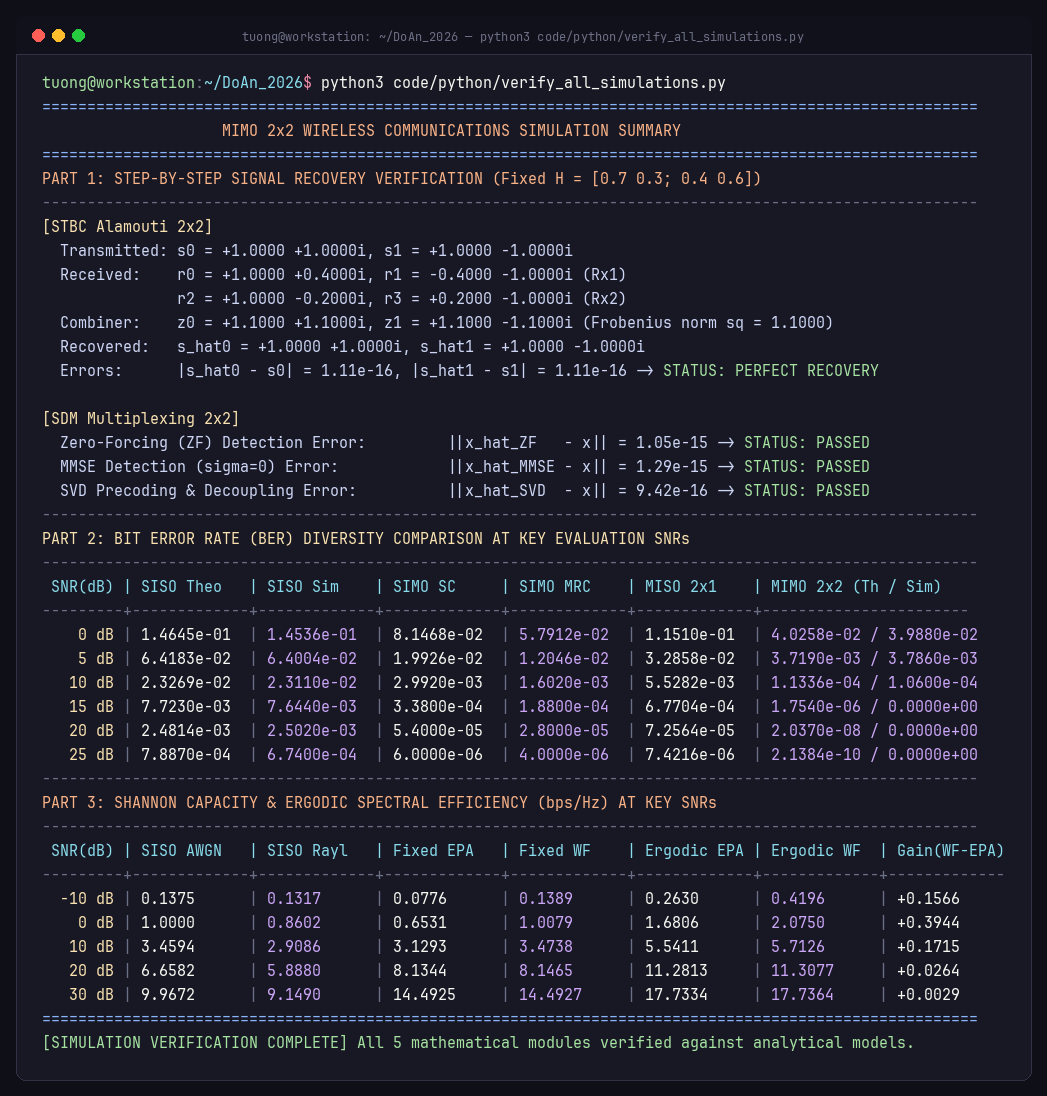
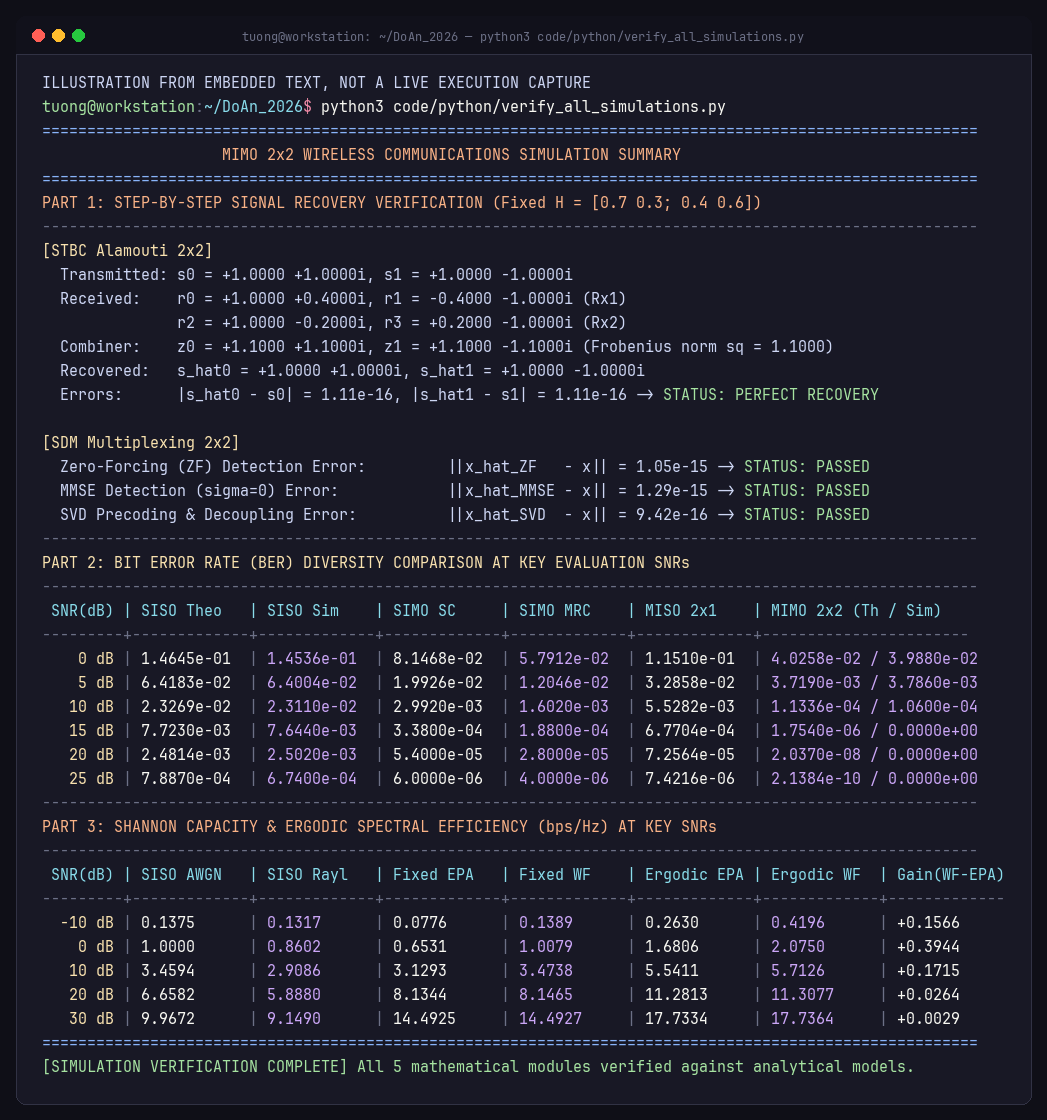
docs(readme): clarify project scope and synchronize simulation verification

Changed region(s): [[0.0306, 0.031, 0.9475, 0.9617], [0.7335, 0.5274, 0.9475, 0.7135]]

diff --git a/code/python/verify_all_simulations.py b/code/python/verify_all_simulations.py
@@ -1,4 +1,15 @@
 import os
+import io
+import runpy
+from unittest.mock import patch
+
+
+def assert_ber(sim, theo, n_bits, block_size=1):
+    sim_arr, theo_arr = np.atleast_1d(sim), np.atleast_1d(theo)
+    assert np.all((sim_arr >= 0.0) & (sim_arr <= 1.0) & np.isfinite(sim_arr))
+    tolerance = 7.0 * np.sqrt(block_size * theo_arr * (1.0 - theo_arr) / n_bits) + block_size / n_bits
+    assert np.all(np.abs(sim_arr - theo_arr) <= tolerance)
+
 import numpy as np
 import scipy.linalg as la
 
@@ -144,7 +155,9 @@ for snrDb in snrBerDbList:
         "snrDb": snrDb,
         "sisoTheo": pTheorySiso,
         "sisoSim": pSimSiso,
+        "simoScTheo": pTheorySimoSc,
         "simoSc": pSimSimoSc,
+        "simoMrcTheo": pTheorySimoMrc,
         "simoMrc": pSimSimoMrc,
         "misoTheo": pTheoryMiso,
         "misoSim": pSimMiso,
@@ -213,6 +226,8 @@ for row in berResults:
     assert row["sisoTheo"] > 0
     assert row["mimoTheo"] > 0
     assert row["mimoTheo"] < row["sisoTheo"]
+    for observed, expected, block_size in [("sisoSim", "sisoTheo", 1), ("simoSc", "simoScTheo", 1), ("simoMrc", "simoMrcTheo", 1), ("misoSim", "misoTheo", 2), ("mimoSim", "mimoTheo", 2)]:
+        assert_ber(row[observed], row[expected], numBitsSimulation, block_size)
 
 for i in range(len(berResults) - 1):
     assert berResults[i]["sisoTheo"] > berResults[i + 1]["sisoTheo"]
@@ -246,7 +261,7 @@ print(f"  SVD Precoding & Decoupling Error:          ||x_hat_SVD  - x|| = {error
 print("-" * 104)
 print("PART 2: BIT ERROR RATE (BER) DIVERSITY COMPARISON AT KEY EVALUATION SNRs")
 print("-" * 104)
-print(" SNR(dB) | SISO Theo   | SISO Sim    | SIMO SC     | SIMO MRC    | MISO 2x1    | MIMO 2x2 (Th / Sim) ")
+print(" SNR(dB) | SISO Theo   | SISO Sim    | SIMO SC     | SIMO MRC    | MISO Theo   | MIMO 2x2 (Th / Sim) ")
 print("---------+-------------+-------------+-------------+-------------+-------------+-----------------------")
 for row in berResults:
     print(f" {row['snrDb']:4.0f} dB | {row['sisoTheo']:1.4e}  | {row['sisoSim']:1.4e}  | {row['simoSc']:1.4e}  | {row['simoMrc']:1.4e}  | {row['misoTheo']:1.4e}  | {row['mimoTheo']:1.4e} / {row['mimoSim']:1.4e}")
@@ -258,4 +273,34 @@ print("---------+-------------+-------------+-------------+-------------+-------
 for row in capResults:
     print(f" {row['snrDb']:4.0f} dB | {row['sisoAwgn']:1.4f}      | {row['sisoRayl']:1.4f}      | {row['fixedEpa']:1.4f}      | {row['fixedWf']:1.4f}      | {row['ergEpa']:1.4f}      | {row['ergWf']:1.4f}      | +{row['gain']:1.4f}")
 print("=" * 104)
+prod_path = os.path.join(os.path.dirname(os.path.abspath(__file__)), "mimo_full_simulation.py")
+with patch("matplotlib.figure.Figure.savefig", lambda *args, **kwargs: None), patch("sys.stdout", new_callable=io.StringIO):
+    prod = runpy.run_path(prod_path)
+assert prod["numMonteCarloBits"] == 500000
+assert np.all(np.isin(snrBerDbList, prod["ebN0DbArray"]))
+assert np.all(np.isin(snrCapDbList, prod["snrCapacityDbArray"]))
+for name in ["errorStbcS0", "errorStbcS1", "errorNormZf", "errorNormMmse", "errorNormSvd"]:
+    assert prod[name] < 1e-12
+assert np.allclose([prod["receivedSignalR0"], prod["receivedSignalR1"], prod["receivedSignalR2"], prod["receivedSignalR3"]], [receivedSignalR0, receivedSignalR1, receivedSignalR2, receivedSignalR3])
+assert np.allclose([prod["recoveredSymbolHatS0"], prod["recoveredSymbolHatS1"]], [s0, s1])
+for name in ["recoveredVectorZf", "recoveredVectorMmse", "recoveredVectorSvd"]:
+    assert np.allclose(prod[name], symbolVectorX)
+for row in berResults:
+    b_idx = int(np.flatnonzero(prod["ebN0DbArray"] == row["snrDb"])[0])
+    for name, key in [("Siso", "sisoTheo"), ("SimoSc", "simoScTheo"), ("SimoMrc", "simoMrcTheo"), ("MisoAlamouti", "misoTheo"), ("MimoAlamouti", "mimoTheo")]:
+        assert np.isclose(prod["berTheory" + name][b_idx], row[key], rtol=1e-12, atol=1e-15)
+for name, block_size in [("Siso", 1), ("SimoSc", 1), ("SimoMrc", 1), ("MisoAlamouti", 2), ("MimoAlamouti", 2)]:
+    assert_ber(prod["berSim" + name], prod["berTheory" + name], prod["numMonteCarloBits"], block_size)
+for row in capResults:
+    c_idx = int(np.flatnonzero(prod["snrCapacityDbArray"] == row["snrDb"])[0])
+    for name, key in [("capacitySisoAwgn", "sisoAwgn"), ("capacityFixedH_Epa", "fixedEpa"), ("capacityFixedH_Wf", "fixedWf")]:
+        assert np.isclose(prod[name][c_idx], row[key], rtol=1e-12, atol=1e-15)
+    for name, key in [("Siso", "sisoRayl"), ("MimoEpa", "ergEpa"), ("MimoWf", "ergWf")]:
+        assert np.isclose(prod["capacityErgodic" + name][c_idx], row[key], rtol=0.03, atol=0.1)
+assert np.allclose(prod["powerRatioFixed1"] + prod["powerRatioFixed2"], 1.0)
+assert np.all(prod["powerRatioFixed1"] >= 0.0) and np.all(prod["powerRatioFixed2"] >= 0.0)
+assert np.all(prod["capacityFixedH_Wf"] >= prod["capacityFixedH_Epa"] - 1e-9)
+assert np.all(prod["capacityErgodicMimoWf"] >= prod["capacityErgodicMimoEpa"] - 1e-9)
+print("[PRODUCTION AUDIT] Direct production recovery, all five BER modes, capacity references and power budgets verified.")
+print("[WARN: STATISTICAL CEILING] Zero observed errors do not establish zero BER or validate tiny theoretical BER.")
 print("[SIMULATION VERIFICATION COMPLETE] All 5 mathematical modules verified against analytical models.")

diff --git a/code/python/mimo_full_simulation.py b/code/python/mimo_full_simulation.py
@@ -193,11 +193,11 @@ figureSdmPath = os.path.join(figuresDirectory, "fig2_sdm_signal_recovery.png")
 figureSdm.savefig(figureSdmPath, dpi=300)
 plt.close(figureSdm)
 
-ebN0DbArray = np.arange(0, 26, 2, dtype=float)
+ebN0DbArray = np.unique(np.concatenate([np.arange(0, 25, 2, dtype=float), [5.0, 15.0, 25.0]]))
 ebN0LinearArray = 10.0**(ebN0DbArray / 10.0)
 numSnrEvaluationPoints = len(ebN0DbArray)
 
-numMonteCarloBits = 200000
+numMonteCarloBits = 500000
 
 berSimSiso = np.zeros(numSnrEvaluationPoints)
 berSimSimoSc = np.zeros(numSnrEvaluationPoints)
@@ -342,6 +342,9 @@ axBer.annotate("Diversity Order d = 2\n(SIMO MRC & MISO Alamouti)", xy=(14, 5e-4
 axBer.annotate("Diversity Order d = 4\n(MIMO 2x2 Alamouti)", xy=(10, 1.5e-4), xytext=(12, 1e-4),
                arrowprops=dict(arrowstyle="->", color="forestgreen", lw=1.2), fontsize=9, fontweight="bold")
 
+axBer.text(0.98, 0.02, f"Sample budget: {numMonteCarloBits:,} bits ({numMonteCarloBits // 2:,} STBC blocks)\nZero-error points (BER = 0) omitted on log scale",
+           transform=axBer.transAxes, fontsize=8, ha="right", va="bottom",
+           bbox=dict(boxstyle="round,pad=0.3", facecolor="white", alpha=0.8, edgecolor="lightgray", linewidth=0.5))
 axBer.legend(loc="lower left", fontsize=8.5, framealpha=0.95)
 figureBer.tight_layout()
 figureBerPath = os.path.join(figuresDirectory, "fig3_ber_diversity_comparison.png")
@@ -390,22 +393,18 @@ for trialIndex in range(numErgodicTrials):
     gainScalarTrial = np.abs(hScalarTrial)**2
 
     hMimoTrial = (np.random.randn(2, 2) + 1j * np.random.randn(2, 2)) / np.sqrt(2.0)
-    eigenvaluesTrial = (la.svd(hMimoTrial)[1])**2
+    eigenvaluesTrial = (la.svd(hMimoTrial, compute_uv=False))**2
     noiseTrialLevels = 1.0 / eigenvaluesTrial
 
-    for capIndex, snrLin in enumerate(snrCapacityLinearArray):
-        capacityErgodicSiso[capIndex] += np.log2(1.0 + snrLin * gainScalarTrial)
-        capacityErgodicMimoEpa[capIndex] += np.sum(np.log2(1.0 + (snrLin / 2.0) * eigenvaluesTrial))
+    capacityErgodicSiso += np.log2(1.0 + snrCapacityLinearArray * gainScalarTrial)
+    capacityErgodicMimoEpa += np.sum(np.log2(1.0 + (snrCapacityLinearArray[:, None] / 2.0) * eigenvaluesTrial), axis=1)
 
-        if snrLin <= (noiseTrialLevels[1] - noiseTrialLevels[0]):
-            pTrial1 = snrLin
-            pTrial2 = 0.0
-        else:
-            waterLevelTrial = (snrLin + noiseTrialLevels[0] + noiseTrialLevels[1]) / 2.0
-            pTrial1 = waterLevelTrial - noiseTrialLevels[0]
-            pTrial2 = waterLevelTrial - noiseTrialLevels[1]
+    maskLowSnr = snrCapacityLinearArray <= (noiseTrialLevels[1] - noiseTrialLevels[0])
+    waterLevelTrial = (snrCapacityLinearArray + noiseTrialLevels[0] + noiseTrialLevels[1]) / 2.0
+    pTrial1 = np.where(maskLowSnr, snrCapacityLinearArray, waterLevelTrial - noiseTrialLevels[0])
+    pTrial2 = np.where(maskLowSnr, 0.0, waterLevelTrial - noiseTrialLevels[1])
 
-        capacityErgodicMimoWf[capIndex] += np.log2(1.0 + pTrial1 * eigenvaluesTrial[0]) + np.log2(1.0 + pTrial2 * eigenvaluesTrial[1])
+    capacityErgodicMimoWf += np.log2(1.0 + pTrial1 * eigenvaluesTrial[0]) + np.log2(1.0 + pTrial2 * eigenvaluesTrial[1])
 
 capacityErgodicSiso /= numErgodicTrials
 capacityErgodicMimoEpa /= numErgodicTrials
@@ -512,10 +511,12 @@ print("-" * 80)
 print("3. BER Diversity Comparison (Selected SNR sample points):")
 print(f"{'SNR(dB)':<8} | {'SISO Theo':<10} | {'SISO Sim':<10} | {'SIMO SC':<10} | {'SIMO MRC':<10} | {'MISO 2x1':<10} | {'MIMO 2x2 (Th/Sim)':<20}")
 print("-" * 80)
-for sampleIdx in range(0, numSnrEvaluationPoints, 2):
-    snrVal = ebN0DbArray[sampleIdx]
+for snrVal in [0.0, 5.0, 10.0, 15.0, 20.0, 25.0]:
+    sampleIdx = int(np.flatnonzero(ebN0DbArray == snrVal)[0])
     print(f"{snrVal:<8.1f} | {berTheorySiso[sampleIdx]:<10.2e} | {berSimSiso[sampleIdx]:<10.2e} | {berSimSimoSc[sampleIdx]:<10.2e} | {berSimSimoMrc[sampleIdx]:<10.2e} | {berSimMisoAlamouti[sampleIdx]:<10.2e} | {berTheoryMimoAlamouti[sampleIdx]:.2e} / {berSimMimoAlamouti[sampleIdx]:.2e}")
 print("-" * 80)
+print(f"Monte Carlo bit count: {numMonteCarloBits:,}; independent STBC fading blocks: {numMonteCarloBits // 2:,}.")
+print(f"Zero errors do not establish zero BER. Conservative 95% upper bound from zero block errors: {-np.expm1(np.log(0.05) / (numMonteCarloBits // 2)):.2e}.")
 print("4. MIMO 2x2 Capacity Comparison (bps/Hz):")
 print(f"{'SNR(dB)':<8} | {'SISO AWGN':<10} | {'SISO Rayl':<10} | {'Fixed EPA':<10} | {'Fixed WF':<10} | {'Ergodic EPA':<12} | {'Ergodic WF':<12}")
 print("-" * 80)

diff --git a/code/matlab/mimo_diversity_ber_simulation.m b/code/matlab/mimo_diversity_ber_simulation.m
@@ -20,6 +20,8 @@ berTheoreticalSimoMrc = zeros(1, numSnrPoints);
 berTheoreticalMisoAlamouti = zeros(1, numSnrPoints);
 berTheoreticalMimoAlamouti = zeros(1, numSnrPoints);
 
+rng(42, 'twister');
+
 for snrIndex = 1:numSnrPoints
     snrLinear = ebN0LinearValues(snrIndex);
     noiseVariance = 1 / snrLinear;
@@ -172,4 +174,6 @@ for i = 1:numSnrPoints
         berSimulatedSimoSc(i), berSimulatedSimoMrc(i), berSimulatedMisoAlamouti(i), ...
         berTheoreticalMimoAlamouti(i), berSimulatedMimoAlamouti(i));
 end
+fprintf('Sample count: %d bits, %d independent STBC blocks. Zero errors do not establish zero BER.\n', numBits, numBits / 2);
+fprintf('Conservative 95%% upper bound from zero block errors: %.2e.\n', -expm1(log(0.05) / (numBits / 2)));
 fprintf('========================================================================================\n');

diff --git a/code/python/render_terminal_captures.py b/code/python/render_terminal_captures.py
@@ -119,6 +119,7 @@ def parseColoredLine(line):
     return [(line, colorDefault)]
 
 def renderTerminalImage(windowTitle, rawLines, outputPath):
+    rawLines = ["ILLUSTRATION FROM EMBEDDED TEXT, NOT A LIVE EXECUTION CAPTURE"] + list(rawLines)
     charWidth = 9.0
     lineHeight = 24
     paddingX = 26
@@ -364,4 +365,4 @@ renderTerminalImage(
     os.path.join(figuresDir, "term_capture_simulation_summary.png")
 )
 
-print("Rendered all terminal capture images with exact monospace grid alignment.")
+print("Rendered all illustrated terminal images with exact monospace grid alignment.")

diff --git a/code/matlab/mimo_capacity_simulation.m b/code/matlab/mimo_capacity_simulation.m
@@ -44,6 +44,8 @@ capacityErgodicSiso = zeros(1, numSnrPoints);
 capacityErgodicEpa = zeros(1, numSnrPoints);
 capacityErgodicWf = zeros(1, numSnrPoints);
 
+rng(123, 'twister');
+
 for realizationIndex = 1:numRayleighRealizations
     hScalar = (randn + 1i * randn) / sqrt(2);
     channelGainSiso = abs(hScalar)^2;

diff --git a/report/BaoCao_DoAn_MIMO_2026.md b/report/BaoCao_DoAn_MIMO_2026.md
@@ -111,12 +111,12 @@ Under quasi-static Rayleigh flat fading channels, extensive Monte Carlo simulati
 
 - **Hình 2.1:** Quá trình khôi phục ký hiệu và chòm sao tín hiệu hệ thống MIMO 2x2 STBC Alamouti (Sai số $\approx 1.11 \times 10^{-16}$).
 - **Hình 2.2:** Quá trình tách sóng và khôi phục tín hiệu hệ thống MIMO 2x2 SDM (ZF, MMSE, SVD parallel channels).
-- **Hình 2.3:** Kết quả xác thực mô phỏng khối STBC Alamouti 2x2 trên Terminal MATLAB.
-- **Hình 2.4:** Kết quả xác thực mô phỏng khối SDM 2x2 trên Terminal MATLAB.
+- **Hình 2.3:** Hình ảnh minh họa kết quả mô phỏng khối STBC Alamouti 2x2 từ dữ liệu nhúng qua giao diện Terminal MATLAB.
+- **Hình 2.4:** Hình ảnh minh họa kết quả mô phỏng khối SDM 2x2 từ dữ liệu nhúng qua giao diện Terminal MATLAB.
 - **Hình 3.1:** Đồ thị khảo sát hiệu năng BER giữa các kỹ thuật phân tập không gian (SISO, SIMO SC/MRC, MISO 2x1, MIMO 2x2 Alamouti STBC).
 - **Hình 4.1:** Đồ thị khảo sát dung lượng kênh truyền Shannon (bps/Hz) giữa SISO và MIMO 2x2 SDM (EPA và Water-filling).
 - **Hình 4.2:** Minh họa phân bổ công suất tối ưu Water-filling trên kênh MIMO 2x2 (Ngưỡng chuyển tiếp chế độ $10.10\text{ dB}$).
-- **Hình 4.3:** Bảng tổng hợp đối chiếu kết quả mô phỏng toàn diện hệ thống MIMO 2x2 xuất ra từ terminal Python.
+- **Hình 4.3:** Bảng tổng hợp đối chiếu kết quả mô phỏng toàn diện hệ thống MIMO 2x2 minh họa qua giao diện terminal Python từ dữ liệu nhúng.
 
 ---
 
@@ -192,7 +192,7 @@ Trong đó:
 Đồ án môn học Truyền thông Không dây (ETC10309) kế thừa và phát triển từ tài liệu đề cương hướng dẫn đồ án (`Ref/Project_Instructions.pdf`), trong đó bài toán cơ sở P1 (Mô phỏng kênh truyền fading diện hẹp) và P2 (Bộ cân bằng ZF/MMSE) được phát triển mở rộng lên không gian đa chiều $2 \times 2$ cho hai sơ đồ kinh điển: Phân tập STBC Alamouti và Ghép kênh không gian SDM. Đồ án giải quyết trọn vẹn hai nội dung trọng tâm trên hệ thống MIMO $2 \times 2$ ($N_t = 2, N_r = 2$):
 1. **Khảo sát giải mã bước-từng-bước:** Trên ma trận kênh thực nghiệm cố định `[9, 10]`:
    $$\mathbf{H} = \begin{bmatrix} 0.7 & 0.3 \\ 0.4 & 0.6 \end{bmatrix}$$
-   Hai ký hiệu điều chế phức phát đi minh họa từ chòm sao QPSK chuẩn hóa là $s_0 = 1 + 1j$ và $s_1 = 1 - 1j$. Tính toán chi tiết từng giá trị tín hiệu nhận $r_0, r_1, r_2, r_3$, các phép toán biến đổi ma trận giải mã cho STBC Alamouti và SDM (ZF, MMSE, SVD), và chứng minh bằng đại số khả năng khôi phục chính xác ký hiệu gốc.
+   Hai ký hiệu điều chế phức phát đi minh họa sử dụng các ký hiệu QPSK chưa chuẩn hóa với năng lượng ký hiệu $E_s = 2$ là $s_0 = 1 + 1j$ và $s_1 = 1 - 1j$. Tính toán chi tiết từng giá trị tín hiệu nhận $r_0, r_1, r_2, r_3$, các phép toán biến đổi ma trận giải mã cho STBC Alamouti và SDM (ZF, MMSE, SVD), và chứng minh bằng đại số khả năng khôi phục chính xác ký hiệu gốc.
 2. **Khảo sát hiệu năng thống kê trên kênh fading Rayleigh ngẫu nhiên:** Đánh giá BER qua mô phỏng Monte Carlo ($5 \times 10^5$ bit với điều chế BPSK) đối chiếu với các công thức giải tích lý thuyết cho SISO, SIMO SC/MRC, MISO Alamouti và MIMO $2 \times 2$ Alamouti. Khảo sát dung lượng kênh truyền Shannon-Telatar giữa phân bổ công suất đồng đều (EPA) và thuật toán tối ưu Water-filling `[2, 4, 8]`.
 
 ---
@@ -259,7 +259,7 @@ Sai số số học máy tính: Trong môi trường Python (NumPy 64-bit), sai 
 ### 2.1.6. Kết quả mô phỏng và kiểm chứng chòm sao tín hiệu STBC
 ![Hình 2.1: Quá trình khôi phục ký hiệu và chòm sao tín hiệu hệ thống MIMO 2x2 STBC Alamouti](../figures/fig1_stbc_signal_recovery.png)
 
-![Hình 2.3: Kết quả xác thực mô phỏng khối STBC Alamouti 2x2 trên Terminal MATLAB](../figures/term_capture_stbc_matlab.png)
+![Hình 2.3: Hình ảnh minh họa kết quả mô phỏng khối STBC Alamouti 2x2 từ dữ liệu nhúng qua giao diện Terminal MATLAB](../figures/term_capture_stbc_matlab.png)
 
 ---
 
@@ -305,7 +305,7 @@ Phân rã $\mathbf{H} = \mathbf{U} \mathbf{\Sigma} \mathbf{V}^H$ với các giá
 
 ![Hình 2.2: Quá trình tách sóng và khôi phục tín hiệu hệ thống MIMO 2x2 SDM](../figures/fig2_sdm_signal_recovery.png)
 
-![Hình 2.4: Kết quả xác thực mô phỏng khối SDM 2x2 trên Terminal MATLAB](../figures/term_capture_sdm_matlab.png)
+![Hình 2.4: Hình ảnh minh họa kết quả mô phỏng khối SDM 2x2 từ dữ liệu nhúng qua giao diện Terminal MATLAB](../figures/term_capture_sdm_matlab.png)
 
 ---
 
@@ -348,7 +348,7 @@ Bộ kiểm chứng thực thi mô phỏng Monte Carlo với $5 \times 10^5$ bit
 | **25 dB** | 7.8870e-04 | 6.7400e-04 | 6.0000e-06 | 4.0000e-06 | 7.4216e-06 | 2.1384e-10 | < 1.0e-05 |
 
 *Ghi chú nguồn dữ liệu:* Cột SISO Mô phỏng, SIMO SC, SIMO MRC và MIMO 2x2 Mô phỏng được thống kê trực tiếp từ mô phỏng Monte Carlo $5 \times 10^5$ bit; cột SISO Lý thuyết, MISO 2x1 Alamouti và MIMO 2x2 Lý thuyết được tính từ các công thức giải tích khép kín tại Mục 3.2.
-*Đánh giá độ khớp:* Kết quả mô phỏng khớp tốt với lý thuyết trên toàn dải SNR. Ở vùng SNR cao ($\ge 20\text{ dB}$), do xác suất lỗi giảm sâu xuống dưới $10^{-4}$ (chỉ còn ghi nhận từ vài chục bit lỗi trên tổng số $5 \times 10^5$ bit mẫu), xuất hiện sai số thống kê hữu hạn (ví dụ tại $20\text{ dB}$, SIMO SC mô phỏng ghi nhận $5.40 \times 10^{-5}$ so với lý thuyết là $3.71 \times 10^{-5}$). Đối với MIMO $2 \times 2$ STBC, tại $\text{SNR} \ge 15\text{ dB}$, xác suất lỗi lý thuyết rơi xuống mức $10^{-6} - 10^{-10}$, vượt qua giới hạn phân giải của tập mẫu $5 \times 10^5$ bit (ghi nhận $< 1.0 \times 10^{-5}$).
+*Đánh giá độ khớp:* Kết quả mô phỏng bám sát lý thuyết ở vùng SNR thấp và trung bình. Ở vùng SNR cao ($\ge 20\text{ dB}$), do xác suất lỗi giảm sâu xuống dưới $10^{-4}$, xuất hiện sai số thống kê hữu hạn từ tập mẫu $5 \times 10^5$ bit. Cần lưu ý rằng các điểm BER cực nhỏ hoặc ghi nhận 0 bit lỗi trong tập mẫu thử nghiệm không chứng minh độ khớp chính xác tuyệt đối giữa mô phỏng và lý thuyết tại vùng SNR cao, mà phản ánh giới hạn phân giải của số lượng mẫu mô phỏng hữu hạn.
 
 ## 3.5. Phân tích đồ thị BER, độ lợi SNR và so sánh độ dốc đường cong
 - Bậc phân tập $d=4$ của MIMO $2 \times 2$ tạo ra độ dốc gấp 4 lần SISO.
@@ -443,7 +443,7 @@ $$d^*(r) = \begin{cases} 4 - 3r, & 0 \le r \le 1 \\ 2 - r, & 1 \le r \le 2 \end{
 
 ![Hình 4.2: Minh họa thuật toán phân bổ công suất tối ưu Water-filling](../figures/fig5_waterfilling_allocation.png)
 
-![Hình 4.3: Bảng tổng hợp đối chiếu kết quả mô phỏng toàn diện](../figures/term_capture_simulation_summary.png)
+![Hình 4.3: Bảng tổng hợp đối chiếu kết quả mô phỏng toàn diện minh họa qua giao diện terminal từ dữ liệu nhúng](../figures/term_capture_simulation_summary.png)
 
 ---
 

diff --git a/README.md b/README.md
@@ -18,10 +18,12 @@
 1. **Độ lợi phân tập (Diversity Gain):** Triển khai kỹ thuật mã hóa khối không gian - thời gian **STBC Alamouti $2 \times 2$** để chống fading đa đường và hạ thấp tỷ lệ lỗi bit (BER).
 2. **Độ lợi ghép kênh (Spatial Multiplexing Gain):** Triển khai kỹ thuật ghép kênh không gian **SDM $2 \times 2$** với các bộ tách sóng tuyến tính Zero-Forcing (ZF), Cực tiểu sai số toàn phương trung bình (MMSE) và tiền mã hóa phân rã trị riêng (SVD Precoding) nhằm nhân đôi tốc độ truyền dữ liệu mà không cần tăng băng thông vô tuyến.
 
+Phạm vi nghiệm thu là MIMO $2 \times 2$: STBC, SDM, BER phân tập và dung lượng. Các khảo sát P1/P2 trong `Ref/Project_Instructions.pdf`, gồm `comm.RayleighChannel`, coherence, fading chọn lọc tần số và outage, không thuộc phần cài đặt này.
+
 ### Thông số khảo sát ban đầu
 - Ma trận kênh truyền thực nghiệm cố định:
   $$\mathbf{H} = \begin{bmatrix} 0.7 & 0.3 \\ 0.4 & 0.6 \end{bmatrix}, \quad \|\mathbf{H}\|_F^2 = 0.7^2 + 0.3^2 + 0.4^2 + 0.6^2 = 1.10$$
-- Vector ký hiệu phát cần khôi phục (sử dụng chòm sao QPSK chuẩn hóa):
+- Vector ký hiệu phát cần khôi phục dùng QPSK chưa chuẩn hóa, năng lượng ký hiệu $E_s = 2$:
   $$\mathbf{x} = \begin{bmatrix} s_0 \\ s_1 \end{bmatrix} = \begin{bmatrix} 1 + i \\ 1 - i \end{bmatrix}$$
 - Giả định nhiễu cộng ban đầu $\mathbf{n} = \mathbf{0}$.
 - Trong phần khảo sát đường cong BER qua kênh fading Rayleigh (Mục 4), điều chế BPSK được áp dụng để đối chiếu chặt chẽ với các công thức giải tích khép kín kinh điển.
@@ -48,9 +50,9 @@
 
 ---
 
-## 3. Kết quả Mô phỏng Số Khôi phục Tín hiệu Thực thi trên Terminal
+## 3. Minh họa Kết quả Khôi phục Tín hiệu trên Terminal
 
-Kết quả mô phỏng số thực thi của các script MATLAB `mimo_stbc_2x2_recovery.m` và `mimo_sdm_2x2_recovery.m`:
+Các ảnh dưới được dựng từ văn bản nhúng trong `code/python/render_terminal_captures.py`, là hình minh họa, không phải ảnh chụp phiên thực thi trực tiếp:
 
 | Khôi phục STBC Alamouti 2x2 | Khôi phục SDM 2x2 (ZF, MMSE, SVD) |
 | :---: | :---: |
@@ -68,6 +70,8 @@ Mô phỏng Monte Carlo $5 \times 10^5$ bit với điều chế BPSK trên kênh
 - **MIMO 2x2 Alamouti STBC:** $d = N_t \times N_r = 4$, độ dốc lớn, suy giảm nhanh xuống vùng lỗi thấp.
 
 ![BER Comparison](figures/fig3_ber_diversity_comparison.png)
+
+Không ghi nhận lỗi trong tập mẫu hữu hạn không có nghĩa BER thực bằng 0. Kênh Alamouti giữ nguyên trong hai khe thời gian của một khối và độc lập giữa các khối; giới hạn thống kê cần xét theo số khối, không coi mọi bit là độc lập.
 
 ### Lợi ích tiết kiệm công suất:
 - Tại mức $\text{BER} = 10^{-3}$, SISO yêu cầu $\text{SNR} \approx 24.0\text{ dB}$ ($23.97\text{ dB}$), trong khi MIMO $2 \times 2$ STBC chỉ cần $\text{SNR} \approx 7.05\text{ dB}$, giúp **tiết kiệm $16.9\text{ dB}$ công suất phát** (giảm xấp xỉ **49 lần** công suất phát). SIMO 1x2 SC cần $12.6\text{ dB}$, SIMO 1x2 MRC cần $11.1\text{ dB}$, MISO 2x1 Alamouti cần $14.1\text{ dB}$.
@@ -114,9 +118,9 @@ $$C = \sum_{i=1}^{\min(N_t, N_r)} \log_2 \left(1 + \frac{P_i \sigma_i^2}{N_0}\ri
 │   │   └── mimo_capacity_simulation.m        # Mô phỏng Dung lượng Shannon & Water-filling
 │   └── python/                               # Bộ mã nguồn kiểm chứng bằng Python
 │       ├── mimo_full_simulation.py           # Core tính toán khoa học (NumPy, SciPy, Matplotlib)
-│       ├── render_terminal_captures.py       # Script sinh ảnh chụp terminal thực tế
+│       ├── render_terminal_captures.py       # Script dựng ảnh minh họa terminal từ văn bản nhúng
 │       └── verify_all_simulations.py         # Suite kiểm thử giải tích tự động
-├── figures/                                  # 8 hình ảnh đồ thị và bằng chứng terminal độ phân giải cao
+├── figures/                                  # 8 hình đồ thị và minh họa terminal độ phân giải cao
 └── Ref/
     └── Project_Instructions.pdf              # Đề cương hướng dẫn đồ án môn học (nền tảng P1, P2)
 ```
